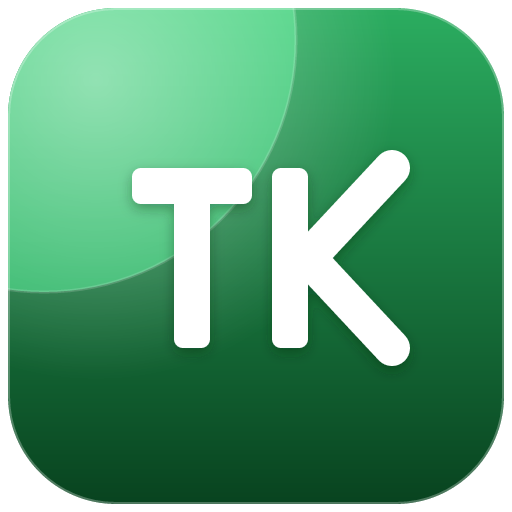
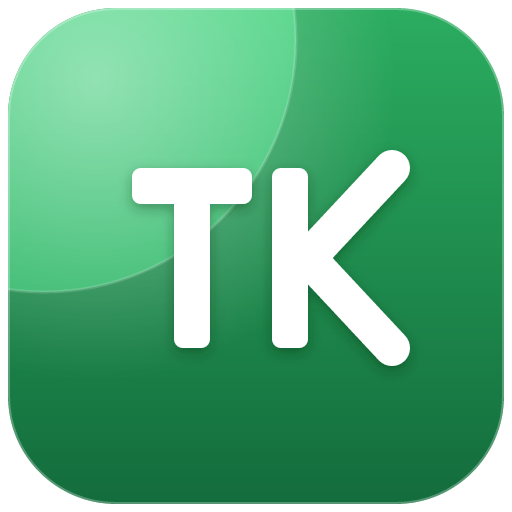
fix: โลโก้ TK — ลดความเข้มปลายล่างของเฉดเขียว (จาง→เข้มน้อยลง)
ปรับปลายล่างเฉดเข้ม #08431f → #136c3c (อ่อนลง) · sync generator · icon.svg · Logo.tsx + PNG

diff --git a/src/components/Logo.tsx b/src/components/Logo.tsx
@@ -19,7 +19,7 @@ export function Logo({ size = 40, className }: { size?: number; className?: stri
       <defs>
         <linearGradient id="tk-dark" x1="256" y1="8" x2="256" y2="504" gradientUnits="userSpaceOnUse">
           <stop offset="0" stopColor="#2bad60" />
-          <stop offset="1" stopColor="#08431f" />
+          <stop offset="1" stopColor="#136c3c" />
         </linearGradient>
         <linearGradient id="tk-light" x1="256" y1="8" x2="256" y2="320" gradientUnits="userSpaceOnUse">
           <stop offset="0" stopColor="#48d381" />
